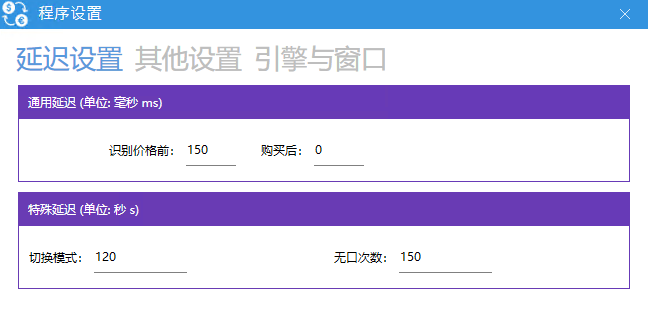
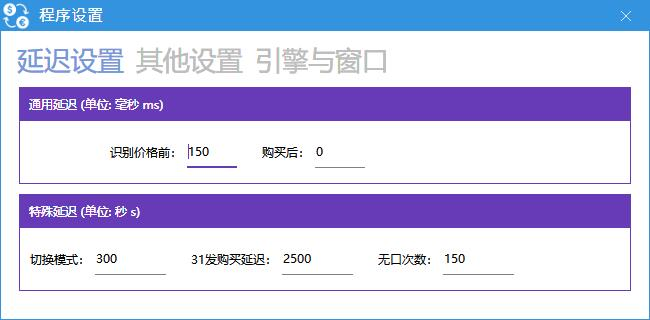
Add docs and config for AutoBullter

diff --git a/docs/Install/3_Stockpiling.md b/docs/Install/3_Stockpiling.md
@@ -21,6 +21,7 @@
 * **识别价格前**： 在子弹购买界面识别价格前延迟时间。
 * **购买后**： 不用动它保持默认。
 * **切换模式**： 达到延迟时间后进行模式切换。
+* **31发购买延迟**： 因为一直原价探价购买31发比较费资金，所以这里购买延迟可以自行调整(单位是毫秒。1秒=1000毫秒)。
 * **无口次数**： 检测到指定次数都进入不了入手价格一下则进行切配。
 
 ## 三、 其他设置界面
@@ -29,6 +30,7 @@
 
 * **切换配装** ：就是自动切配，主界面的切配下边有选项，勾选后，自动达到默认检测150次无低价会切换到下一个方案，前提是自己设置好各方案参数。
 * **切换模式** ：自动切换模式，正常情况这个勾上就行了。
+* **定时任务** ：总定时开关，勾选后，右边定时时间里可以自己总定时开始和结束时间，格式按照xx:xx。
 * **启动器类型**： 游戏起动时时通过什么方式启动的就就选择哪个。
 * **掉线重启** ：自动重上游戏，默认是官方启动器，如果不是官方启动器，请自行选择对应启动器。
 * **自动登录**： 勾选后，自行结束软件后重新启动生效。在登录界面不需要点击登录，程序会自动登录进入界面。（登录界面也有该选项，在登录界面勾选后，不点登录直接关闭软件重新运行即生效。）
@@ -56,6 +58,6 @@
     ![延迟设置](/images/image_24.png)
 
 4.  识别价格前的延迟就是防止电脑配置不同可能点了物品后价格界面还没显示出来，这个按需设置。
-5.  主界面方案1里面设置入手价格，就是你要屯仓要设定在什么价格进行购买，购买次数就是屯仓数量，你补低价房卡可以设置1 ，买一张就停止运行了。屯子弹的话购买次数设置为0。挡屎价格是防止识别出错误购买用的，我们一般设置为入手价格的一半。
+5.  主界面方案1里面设置入手价格，就是你要屯仓要设定在什么价格进行购买，购买次数就是屯仓数量，你补低价房卡、配件、装备可以设置1 ，买一个就停止运行了。屯子弹的话购买次数设置为0。挡屎价格是防止识别出错误购买用的，我们一般设置为入手价格的一半。
 6.  在开始游戏大厅界面SHIFT+F8是开始，SHIFT+F9是停止。
 7.  具体教程可以看群内视频。
